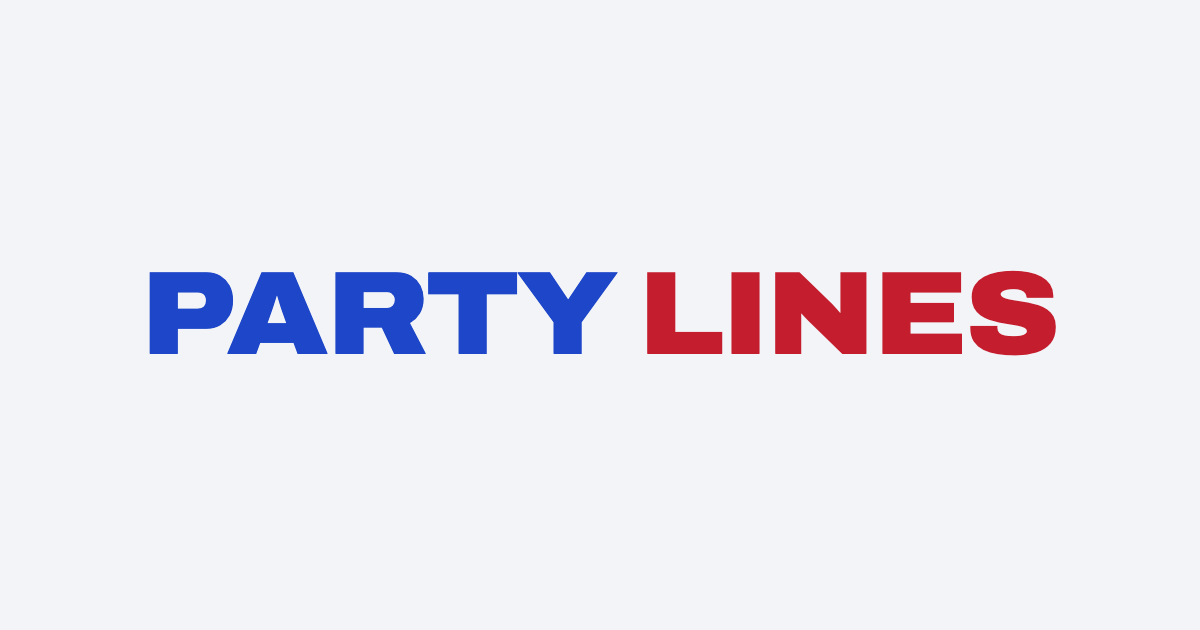
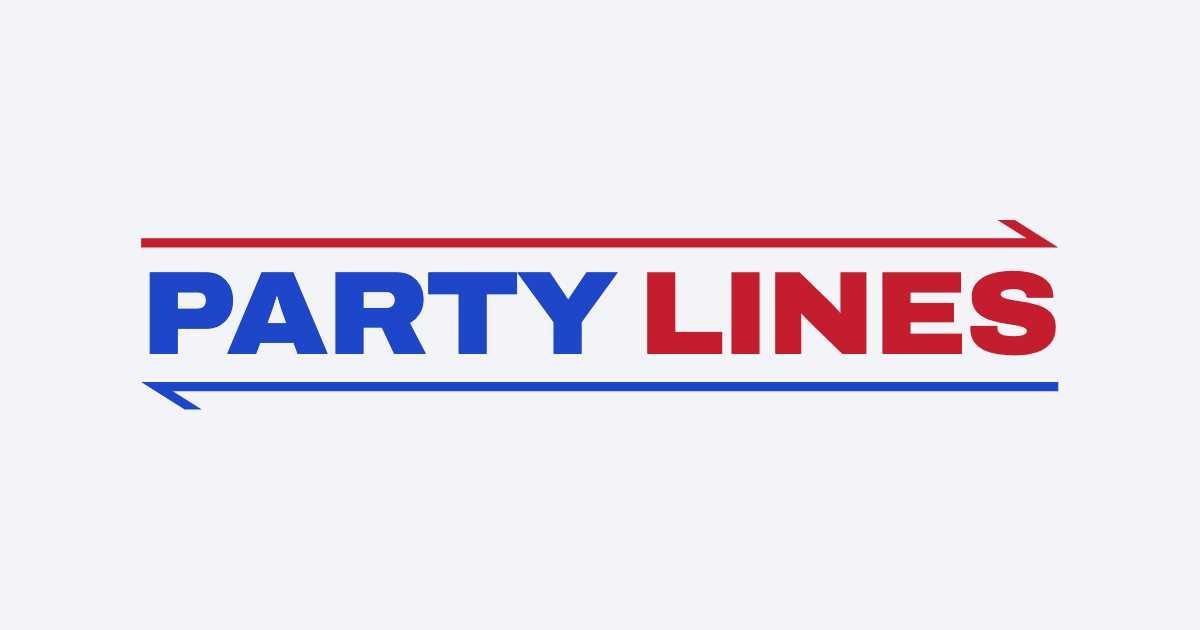
Wordmark arrows: red above pointing right, blue below pointing left; refreshed link preview

Changed region(s): [[0.1233, 0.6032, 0.8942, 0.6635], [0.1233, 0.3317, 0.8942, 0.3921]]

diff --git a/index.html b/index.html
@@ -11,7 +11,7 @@
 <meta property="og:url" content="https://rileyjrice.github.io/party-lines/">
 <meta property="og:title" content="Party Lines 2026">
 <meta property="og:description" content="Predict the winner and margin in 16 Senate races, seal your picks, and see how you stack up on election night.">
-<meta property="og:image" content="https://rileyjrice.github.io/party-lines/og-image.png">
+<meta property="og:image" content="https://rileyjrice.github.io/party-lines/og-image.png?v=2">
 <meta property="og:image:width" content="1200">
 <meta property="og:image:height" content="630">
 <meta property="og:image:alt" content="Party Lines">
@@ -25,7 +25,11 @@
 <div class="wrap">
   <header class="mast">
     <div>
-      <h1 class="wordmark"><span class="p">Party</span><span class="l">Lines</span></h1>
+      <div class="wordmark-wrap">
+        <svg class="wm-arrow" viewBox="0 0 1000 30" aria-hidden="true"><polygon class="wm-r" points="0.0,20.0 965.4,20.0 933.8,0.0 952.5,0.0 1000.0,30.0 0.0,30.0"/></svg>
+        <h1 class="wordmark"><span class="p">Party</span><span class="l">Lines</span></h1>
+        <svg class="wm-arrow" viewBox="0 0 1000 30" aria-hidden="true"><polygon class="wm-d" points="1000.0,10.0 34.6,10.0 66.2,30.0 47.5,30.0 0.0,0.0 1000.0,0.0"/></svg>
+      </div>
       <p class="mast-sub">Predict the winner and margin in 16 Senate races. Seal your picks, then see how they stack up against your friends and the official results on election night.</p>
     </div>
     <div class="mast-meta">

diff --git a/styles.css b/styles.css
@@ -417,3 +417,8 @@ tr.model.mt-pf .model-name { color: var(--ink); }
 /* Long leaderboards scroll inside their box instead of stretching the page; headings stay put */
 .board .table-wrap { max-height: 520px; overflow-y: auto; overscroll-behavior: contain; }
 .board thead th { position: sticky; top: 0; z-index: 1; background: var(--surface); }
+
+/* Wordmark arrows: red above pointing right, blue below pointing left, tips flush with the text edges */
+.wordmark-wrap { display: inline-grid; gap: clamp(5px, 0.9vw, 10px); }
+.wm-arrow { display: block; width: 100%; height: auto; }
+.wm-r { fill: var(--red); } .wm-d { fill: var(--blue); }
